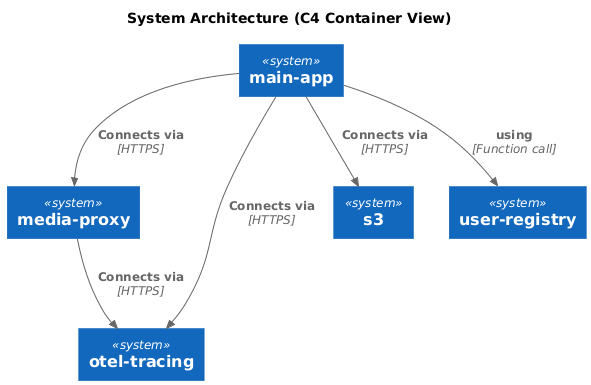
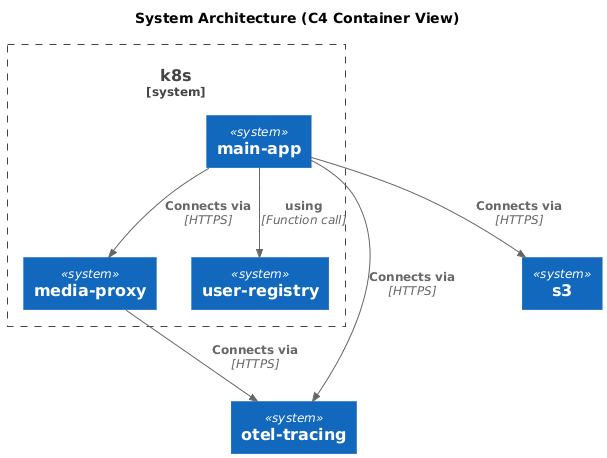
Add contexts
Contexts are a way to declare that a service belongs to an environment
in which some rules are different.

For instance, Contexts are represented as a System Boundary in C4.
In Cilium, services within the same k8s cluster are referred to by an
endpoint name that does not need to be resolved to an FQDN, whereas
services outside of the cluster *require* an FQDN.

diff --git a/README.md b/README.md
@@ -88,7 +88,7 @@ spec:
     matchLabels:
       app: "media-proxy"
   egress:
-    - toEndpoints:
+    - toEndpoints: # Mandatory DNS connectivity
         - matchLabels:
             io.kubernetes.pod.namespace: "kube-system"
             k8s-app: "kube-dns"
@@ -99,15 +99,12 @@ spec:
           rules:
             dns:
               - matchPattern: "*"
-    - toFQDNs:
-        - matchName: "opensearch.internal.network"
-        - ports:
-          - port: "443"
-            protocol: TCP
-    - toFQDNs:
+    - toFQDNs: # Out of cluster
         - matchName: "tracing.internal.network"
         - ports:
           - port: "443"
             protocol: TCP
+    - toEndpoints: # Internal to the k8s cluster
+        - matchLabels:
+            app: "redis"
 ```
-